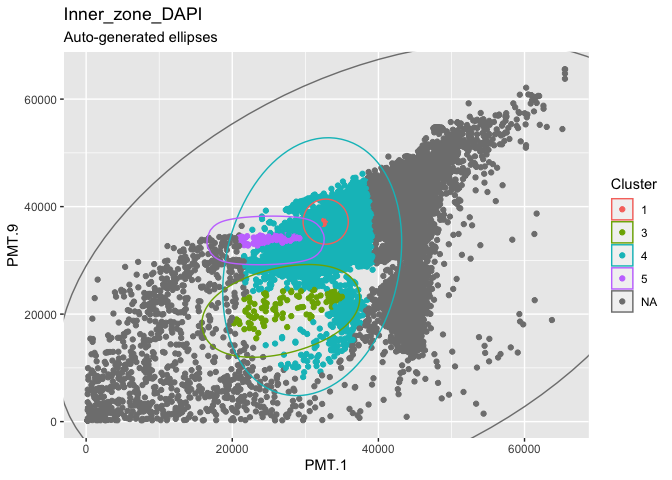
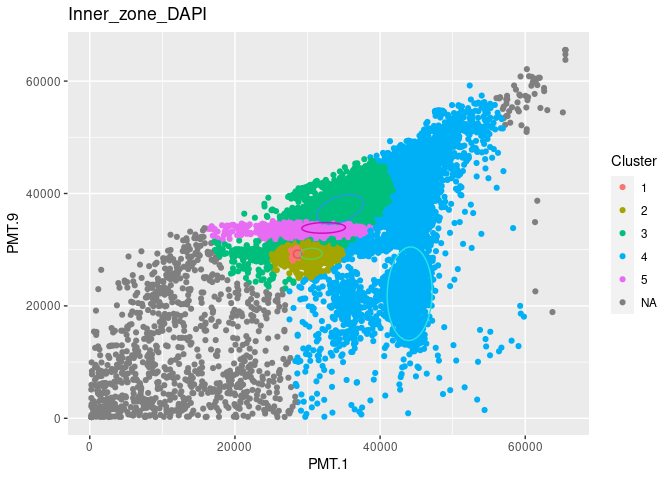
add file

diff --git a/workflow/02a-flowEMMi-for-Z-project.md b/workflow/02a-flowEMMi-for-Z-project.md
@@ -1,6 +1,12 @@
 02a-flowEMMi for Z-project
 ================
-Compiled at 2023-08-22 00:00:55 UTC
+Compiled at 2023-09-20 20:02:15 UTC
+
+``` r
+here::i_am(paste0(params$name, ".Rmd"), uuid = "11675b32-9913-442e-9b4a-03cdc39afb65")
+```
+
+The purpose of this document is …
 
 ``` r
 library("conflicted")
@@ -8,13 +14,57 @@ library(purrr)
 library(dplyr)
 library(mvtnorm)
 library(flowEMMi)
+```
+
+    ## For detailed instructions please run browseVignettes('flowEMMi').
+    ##   For an overview of available functions please run library(help='flowEMMi')
+
+``` r
 library(flowCore)
 library(flowWorkspace)
+```
+
+    ## As part of improvements to flowWorkspace, some behavior of
+    ## GatingSet objects has changed. For details, please read the section
+    ## titled "The cytoframe and cytoset classes" in the package vignette:
+    ## 
+    ##   vignette("flowWorkspace-Introduction", "flowWorkspace")
+
+``` r
 library(ggcyto)
-library(ggforce)
+```
+
+    ## Loading required package: ggplot2
+
+    ## Loading required package: ncdfFlow
+
+    ## Loading required package: BH
+
+``` r
 library(tidyverse)
+```
+
+    ## ── Attaching core tidyverse packages ──────────────────────── tidyverse 2.0.0 ──
+    ## ✔ forcats   1.0.0     ✔ stringr   1.5.0
+    ## ✔ lubridate 1.9.2     ✔ tibble    3.2.1
+    ## ✔ readr     2.1.4     ✔ tidyr     1.3.0
+
+``` r
 library(RColorBrewer)
 library(knitr)
+library(ellipse)
+library(ggforce)
+```
+
+``` r
+# create or *empty* the target directory, used to write this file's data: 
+projthis::proj_create_dir_target(params$name, clean = TRUE)
+
+# function to get path to target directory: path_target("sample.csv")
+path_target <- projthis::proj_path_target(params$name)
+
+# function to get path to previous data: path_source("00-import", "sample.csv")
+path_source <- projthis::proj_path_source(params$name)
 ```
 
 ## Z-project
@@ -22,11 +72,11 @@ library(knitr)
 ### Import preprocessed data
 
 ``` r
-DAPI <- readRDS("~/Desktop/MScThesis/workflow/data/new_DAPI.rds")
+DAPI <- readRDS("~/MSc_new_data/new_DAPI.rds")
 
-FDA_PI <- readRDS("~/Desktop/MScThesis/workflow/data/new_FDA_PI.rds")
+FDA_PI <- readRDS("~/MSc_new_data/new_FDA_PI.rds")
 
-gating_DAPI <- readRDS("~/Desktop/z_gating_list.rds")
+gating_DAPI<- readRDS("~/MSc_new_data/z_gating_list.rds")
 ```
 
 ### flowEMMI gating on DAPI
@@ -38,9 +88,9 @@ samples are mostly concentrated in the range of 20000 to 60000.
 Therefore, we will run the automated gating on surrounding region and
 other regions respectively.
 
--   Setting range for other regions: 20000-50000
+- Setting range for other regions: 20000-50000
 
--   Setting range for Surrounding region: 1000-50000
+- Setting range for Surrounding region: 1000-50000
 
 ``` r
 set.seed(1)
@@ -136,7 +186,7 @@ maha_result <- list()
 for (x in 1:5){
   data <- DAPI[[x]]@exprs[,c(11,27)]
   
-  mu <- split(gating_DAPI[[x]]@mu,seq_len(ncol(gating_DAPI[[x]]@mu)))
+  mu <- gating_DAPI[[x]]@mu
   sigma <- gating_DAPI[[x]]@sigma
   
   n_cells <- nrow(data)
@@ -145,7 +195,7 @@ for (x in 1:5){
   
   for (i in 1:n_cells){
     for (j in 1:n_cluster){
-      maha_data[i,j] <- mahalanobis(data[i,],mu[[j]],sigma[[j]])
+      maha_data[i,j] <- mahalanobis(data[i,],mu[,j],sigma[[j]])
     }
   }
   maha_result[[x]] <- maha_data
@@ -158,20 +208,37 @@ for (i in 1:5){
   coln <- ncol(maha1)
   maha <- maha1[,2:coln] %>% as.data.frame()
   
-  # set 50 as distance cutoff
+  threshold <- c()
+  
+  for (col in 1:coln-1){
+    quantile <- quantile(as.numeric(maha[,col]),0.95)
+    threshold <- c(threshold,quantile)
+  }
+  
+  threshold <- min(threshold[-1])
+  
+  # set threshold as distance cutoff
   for (j in 1:nrow(maha)){
     rv <- maha[j,1:ncol(maha)-1]
-    if(all(rv>50)) { maha$Min[j] <- NA}
+    if(all(rv>threshold)) { maha$Min[j] <- NA}
     else {maha$Min[j] <- which.min(rv)}
   }
 
-  maha_result[[i]] <- maha
+  maha_result[[i]] <- cbind(DAPI[[i]]@exprs[,c(11,27)],maha)
   
-  table <-table(maha[,ncol(maha)]) %>% 
+  mu <- gating_DAPI[[i]]@mu
+  
+  test <- table(maha[,ncol(maha)]) %>% as.data.frame()
+  coordinates <- sprintf("(%.2f,%.2f)",mu[1,2:ncol(mu)],mu[2,2:ncol(mu)])
+  test <- cbind(test,coordinates)
+  
+  
+  table <-test %>% 
     kable(caption = paste0(location[i],"_DAPI"),
-          col.names = c("No. of Cluster","Number of Cells"))
+          col.names = c("Cluster","Cells","Ellipse Center"))
   
   print(table)
+  print(paste0("For dataset ",location[i],"_DAPI, the threshold for mahalanobis distance is ",round(threshold,2)))
 }
 ```
 
@@ -179,52 +246,60 @@ for (i in 1:5){
     ## 
     ## Table: Inner_zone_DAPI
     ## 
-    ## |No. of Cluster | Number of Cells|
-    ## |:--------------|---------------:|
-    ## |1              |             166|
-    ## |3              |             103|
-    ## |4              |           42485|
-    ## |5              |             848|
+    ## |Cluster | Cells|Ellipse Center      |
+    ## |:-------|-----:|:-------------------|
+    ## |1       |  1527|(28643.76,29223.22) |
+    ## |2       |  8893|(30501.61,29286.30) |
+    ## |3       |  8434|(34464.78,37187.99) |
+    ## |4       |  5813|(44075.53,22164.24) |
+    ## |5       | 25124|(32221.87,33886.38) |
+    ## [1] "For dataset Inner_zone_DAPI, the threshold for mahalanobis distance is 176.4"
     ## 
     ## 
     ## Table: Middle_zone_DAPI
     ## 
-    ## |No. of Cluster | Number of Cells|
-    ## |:--------------|---------------:|
-    ## |2              |           37248|
-    ## |3              |             571|
-    ## |4              |              13|
-    ## |6              |             183|
-    ## |7              |            2745|
-    ## |8              |            9143|
+    ## |Cluster | Cells|Ellipse Center      |
+    ## |:-------|-----:|:-------------------|
+    ## |1       |  1537|(45924.83,21291.97) |
+    ## |2       |  1798|(7760.03,6873.05)   |
+    ## |3       |  1919|(45580.01,36122.68) |
+    ## |4       | 21793|(34039.12,34394.37) |
+    ## |5       |  1883|(44693.51,24243.41) |
+    ## |6       |  6753|(32247.01,29787.40) |
+    ## |7       |  1611|(36404.83,21368.67) |
+    ## |8       | 13972|(44792.59,44473.96) |
+    ## [1] "For dataset Middle_zone_DAPI, the threshold for mahalanobis distance is 128.19"
     ## 
     ## 
     ## Table: Outer_zone_DAPI
     ## 
-    ## |No. of Cluster | Number of Cells|
-    ## |:--------------|---------------:|
-    ## |1              |           35059|
-    ## |2              |             239|
-    ## |3              |            7729|
+    ## |Cluster | Cells|Ellipse Center      |
+    ## |:-------|-----:|:-------------------|
+    ## |1       |  7676|(32438.31,29446.64) |
+    ## |2       | 24677|(33022.40,34211.25) |
+    ## |3       | 17210|(43440.71,44630.44) |
+    ## [1] "For dataset Outer_zone_DAPI, the threshold for mahalanobis distance is 50.26"
     ## 
     ## 
     ## Table: Whole_colony_DAPI
     ## 
-    ## |No. of Cluster | Number of Cells|
-    ## |:--------------|---------------:|
-    ## |1              |            7467|
-    ## |2              |           18573|
-    ## |3              |               2|
-    ## |4              |           16260|
-    ## |5              |           19211|
+    ## |Cluster | Cells|Ellipse Center      |
+    ## |:-------|-----:|:-------------------|
+    ## |1       | 32740|(34421.77,3491.33)  |
+    ## |2       | 12261|(24522.01,21377.52) |
+    ## |3       |  1455|(29308.42,40498.47) |
+    ## |4       | 26677|(34748.38,34888.12) |
+    ## |5       |  9746|(7285.92,2064.41)   |
+    ## [1] "For dataset Whole_colony_DAPI, the threshold for mahalanobis distance is 467.34"
     ## 
     ## 
     ## Table: Surrounding_DAPI
     ## 
-    ## |No. of Cluster | Number of Cells|
-    ## |:--------------|---------------:|
-    ## |1              |             660|
-    ## |2              |           35549|
+    ## |Cluster | Cells|Ellipse Center      |
+    ## |:-------|-----:|:-------------------|
+    ## |1       | 22234|(33941.44,33940.93) |
+    ## |2       | 27325|(45197.43,22018.91) |
+    ## [1] "For dataset Surrounding_DAPI, the threshold for mahalanobis distance is 227.25"
 
 ``` r
 # plot
@@ -239,33 +314,26 @@ for (i in 1:5){
   
   #ellipses generated by 
   plot1 <- ggplot(data,aes(x=PMT.1,y=PMT.9))+
-    geom_point(aes(color=Cluster))+geom_mark_ellipse(aes(color=Cluster))+
-    ggtitle(paste0(location[i],"_DAPI"),subtitle = "Auto-generated ellipses")
-  
-  print(plot1)
+    geom_point(aes(color=Cluster))+
+    ggtitle(paste0(location[i],"_DAPI"))
   
   #ellipses from flowEMMI result
   ellipses <- gating_DAPI[[i]]
   num_ellipse <- length(ellipses@sigma)
   
-  p <- plot(NULL,type="n",xlim=c(0,70000),ylim=c(0,70000),xlab="PMT.1",ylab="PMT.9")
-  
   for (j in 2:num_ellipse){
     mu <- ellipses@mu[,j]
     sigma <- ellipses@sigma[[j]]
     eli <- ellipse::ellipse(centre=mu,x=sigma,level=0.95,npoints=200) 
-    p <- p+lines(eli,type="l",col=j)
+    eli <- as.data.frame(eli)
+    colnames(eli)<- c("PMT.1","PMT.9")
+    plot1 <- plot1+geom_path(data = eli,aes(x=PMT.1,y=PMT.9),color=j)
   }
+  print(plot1)
 }
 ```
 
-    ## Warning: Using the `size` aesthetic in this geom was deprecated in ggplot2 3.4.0.
-    ## ℹ Please use `linewidth` in the `default_aes` field and elsewhere instead.
-    ## This warning is displayed once every 8 hours.
-    ## Call `lifecycle::last_lifecycle_warnings()` to see where this warning was
-    ## generated.
-
-![](02a-flowEMMi-for-Z-project_files/figure-gfm/maha-plot-1.png)<!-- -->![](02a-flowEMMi-for-Z-project_files/figure-gfm/maha-plot-2.png)<!-- -->![](02a-flowEMMi-for-Z-project_files/figure-gfm/maha-plot-3.png)<!-- -->![](02a-flowEMMi-for-Z-project_files/figure-gfm/maha-plot-4.png)<!-- -->![](02a-flowEMMi-for-Z-project_files/figure-gfm/maha-plot-5.png)<!-- -->![](02a-flowEMMi-for-Z-project_files/figure-gfm/maha-plot-6.png)<!-- -->![](02a-flowEMMi-for-Z-project_files/figure-gfm/maha-plot-7.png)<!-- -->![](02a-flowEMMi-for-Z-project_files/figure-gfm/maha-plot-8.png)<!-- -->![](02a-flowEMMi-for-Z-project_files/figure-gfm/maha-plot-9.png)<!-- -->![](02a-flowEMMi-for-Z-project_files/figure-gfm/maha-plot-10.png)<!-- -->
+![](02a-flowEMMi-for-Z-project_files/figure-gfm/maha-plot-1.png)<!-- -->![](02a-flowEMMi-for-Z-project_files/figure-gfm/maha-plot-2.png)<!-- -->![](02a-flowEMMi-for-Z-project_files/figure-gfm/maha-plot-3.png)<!-- -->![](02a-flowEMMi-for-Z-project_files/figure-gfm/maha-plot-4.png)<!-- -->![](02a-flowEMMi-for-Z-project_files/figure-gfm/maha-plot-5.png)<!-- -->
 
 ## Files written
 
